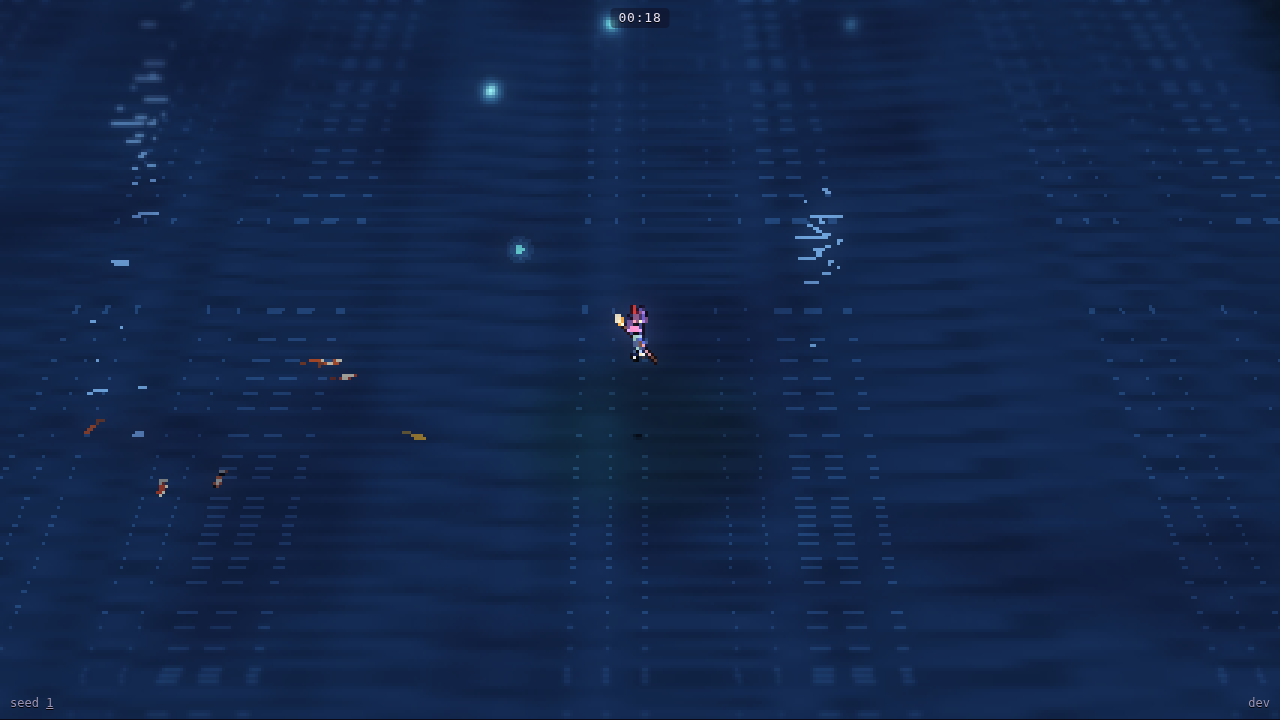
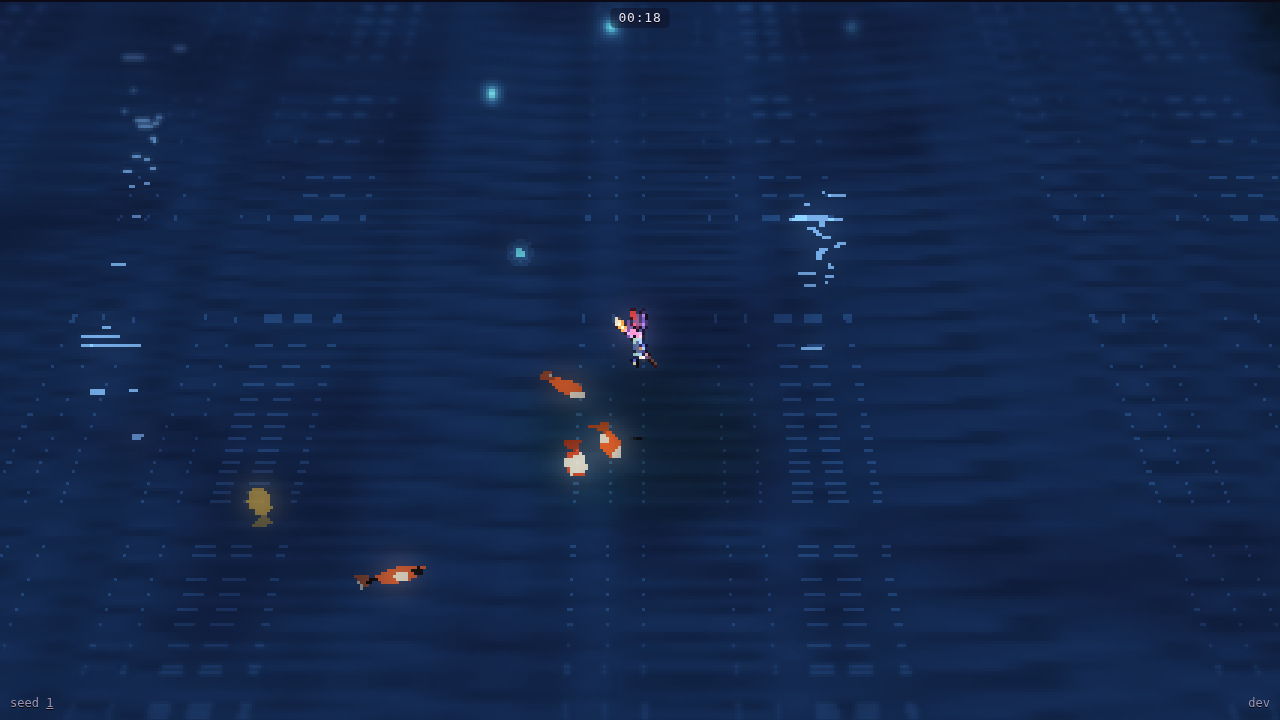
Lakes shots: big koi
Claude-Session: https://claude.ai/code/session_015FJMxjSj1Uoc4qyrVrJeEv

diff --git a/previews/ed/islands/lakes/README.md b/previews/ed/islands/lakes/README.md
@@ -3,4 +3,4 @@
 - `phases-from-above.png`: islands by phase (rows 0 to 5, seeds 1 to 3), lakes in light blue; none on home's island.
 - `hills-ground.png`, `hills-treetops.png`: the hilliest lake shore over six seeds (seed 1, phase 4: 43 m of rise along it), from the ground and the treetops: the water flat in a carved bowl, the ground rising gently from it.
 - `shore.png`: walking straight at the water, she stops at the shore.
-- `koi.png`: held low over a lake's middle (she can't land on the water), its koi under her.
+- `koi.png`, `koi-treetops.png`: held low over a lake's middle (she can't land on the water), and from the treetops: its koi, each about a baby creature's size (Ed, 2026-10-12).
